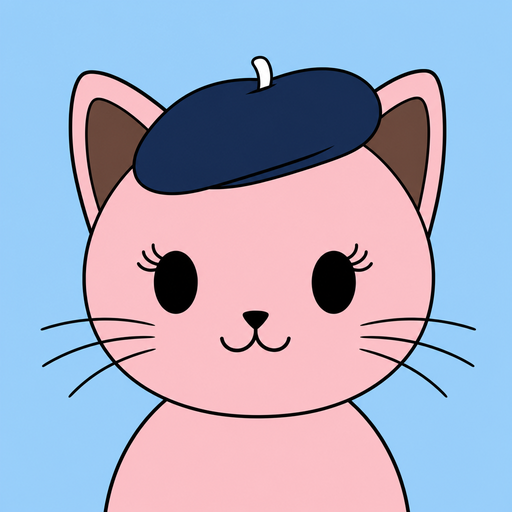
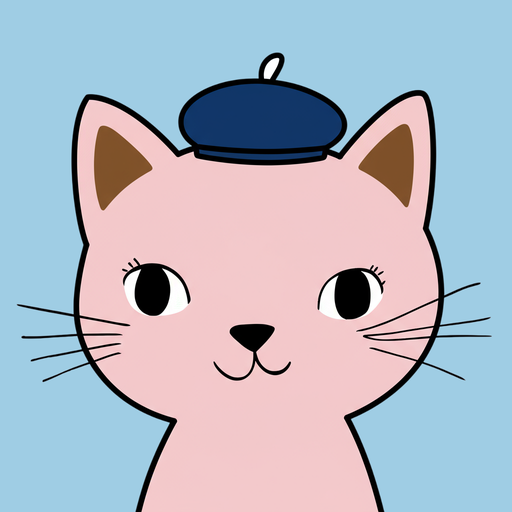
Add portrait crop and original cat IP assets
Crop the uploaded headshot sheet into a smiling portrait for home and
about, replace the generated mascot with the original cat IP, and tidy
image filenames for the personal site.

diff --git a/about/index.html b/about/index.html
@@ -51,7 +51,7 @@
           </div>
         </div>
         <div class="about-photo">
-          <img src="/images/ip-cat.png" alt="Lynn 的猫猫 IP（个人照稍后替换）" width="1024" height="1024" loading="lazy">
+          <img src="/images/lynn-portrait.jpg" alt="Lynn 个人照" width="1200" height="1714" loading="lazy">
         </div>
       </div>
     </main>

diff --git a/index.html b/index.html
@@ -51,7 +51,7 @@
           </div>
         </div>
         <div class="hero-photo">
-          <img src="/images/IMG_5208.JPG" alt="旅行照片" width="1022" height="1200">
+          <img src="/images/lynn-portrait.jpg" alt="Lynn" width="1200" height="1714">
         </div>
       </section>
 
